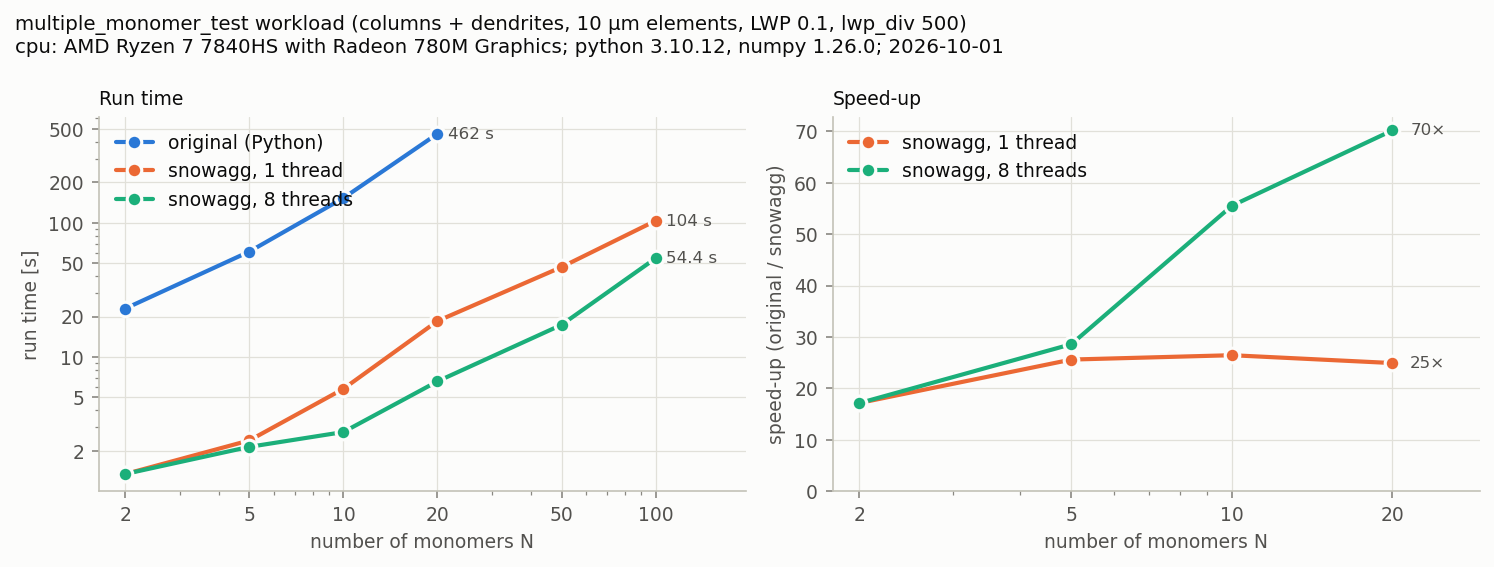
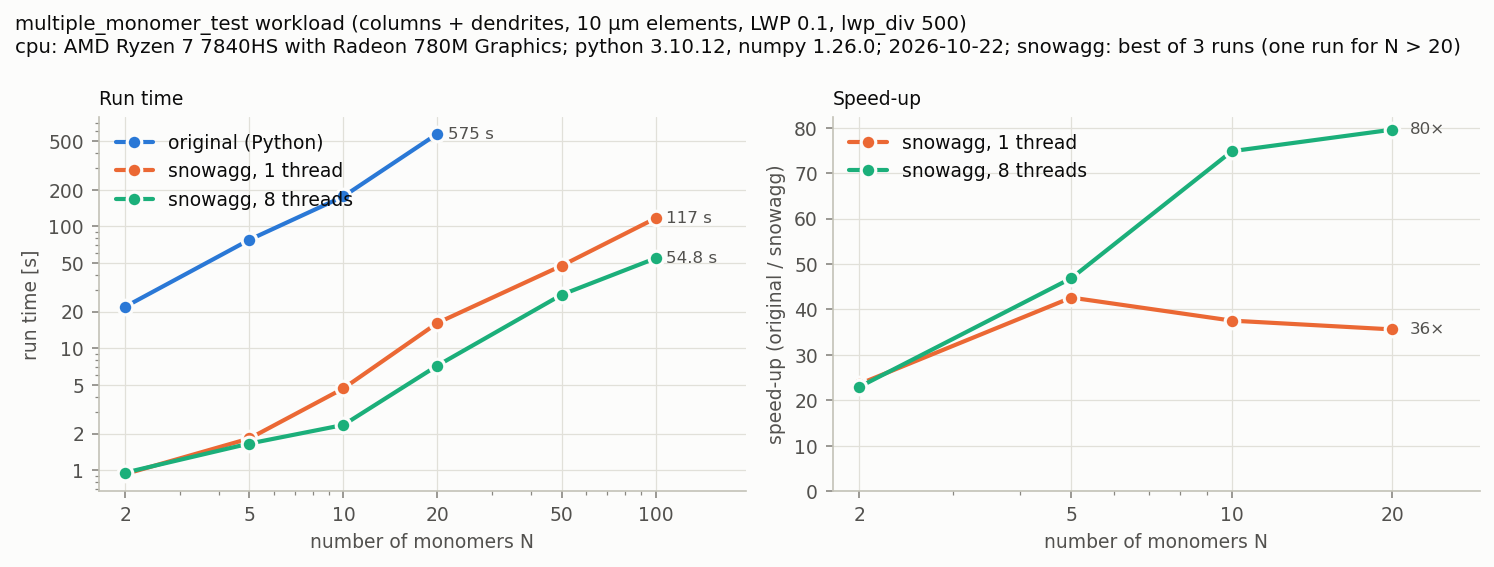
snowagg: no fused align/rotate passes; new benchmark, speed figures and README numbers
The fused passes of the previous speed-up (align and rotate also finding the
extent, rotate also summing X^T X for the next alignment) made runs on 8 threads
slower than before: the multiple_monomer_test workload with N = 20 took 11.5-12.6 s
instead of 9.3 s, while the same code was faster on 1 thread. Without them (the
original align and rotate, the C++ loop of orientation_samples, the projected area
with its grid size from the extent, the flat 3D index and the parallel covering
sphere) the workload takes 7.6-8.3 s on 8 threads and, measured side by side
with the first version of snowagg on 1 thread, 4.7 s instead of 6.3 s (N = 10)
and 16.4 s instead of 20.9 s (N = 20). The results are bit-identical to those of
the first version (complete runs and the covering sphere, 1 and 8 threads), and
the 98 tests pass.

docs/benchmark.py runs each setting in a process of its own (--only repeats one
setting and keeps the other rows), does a few seconds of untimed work first (the
first parallel runs of a process are slow) and keeps the shortest of 3 runs for
the short snowagg cases. The CSV, the two figures and the speed section of the
README are those of a new run.

diff --git a/snowagg/include/snowagg/aggregate.hpp b/snowagg/include/snowagg/aggregate.hpp
@@ -160,20 +160,19 @@ public:
         if (update) update_coordinates();
     }
 
-    // X^T X, summed in blocks of COV_BLOCK rows: the sums of x*x, y*x, z*x,
-    // y*y, z*y, z*z of each block. The blocks are fixed, so the result does
-    // not depend on the number of threads.
-    static constexpr int64_t COV_BLOCK = 16384;
-    using CovParts = std::vector<std::array<double, 6>>;
-
-    CovParts cov_parts() const {
+    // Principal axes as columns, in descending order of length; the length
+    // of each axis is the RMS extent along it.
+    Mat3 principal_axes() const {
+        // X^T X summed in fixed blocks, so the result does not depend on
+        // the number of threads
+        constexpr int64_t B = 16384;
         const int64_t n = static_cast<int64_t>(X.size());
-        const int64_t nb = (n + COV_BLOCK - 1) / COV_BLOCK;
-        CovParts part(nb);
+        const int64_t nb = (n + B - 1) / B;
+        std::vector<std::array<double, 6>> part(nb);
 #pragma omp parallel for schedule(static) if (nb > 4)
         for (int64_t b = 0; b < nb; ++b) {
             std::array<double, 6> s{};
-            for (int64_t i = b * COV_BLOCK; i < std::min(n, (b + 1) * COV_BLOCK); ++i) {
+            for (int64_t i = b * B; i < std::min(n, (b + 1) * B); ++i) {
                 const auto& p = X[i];
                 s[0] += p[0] * p[0];
                 s[1] += p[1] * p[0];
@@ -184,15 +183,6 @@ public:
             }
             part[b] = s;
         }
-        return part;
-    }
-
-    // Principal axes as columns, in descending order of length; the length
-    // of each axis is the RMS extent along it.
-    Mat3 principal_axes() const { return principal_axes_from(cov_parts()); }
-
-    // The same from cov_parts() of the present coordinates.
-    Mat3 principal_axes_from(const CovParts& part) const {
         std::array<double, 6> t{};
         for (const auto& s : part)
             for (int k = 0; k < 6; ++k) t[k] += s[k];
@@ -222,109 +212,49 @@ public:
     }
 
     // Rotate so that the principal axes point along x, y, z (longest first).
-    void align() { align_from(principal_axes()); }
-
-    // align() with the principal axes PA already known (principal_axes_from)
-    void align_from(Mat3 PA) {
+    void align() {
+        Mat3 PA = principal_axes();
         for (int c = 0; c < 3; ++c) {
             const double n = std::sqrt(sq(PA[0][c]) + sq(PA[1][c]) + sq(PA[2][c]));
             for (int r = 0; r < 3; ++r) PA[r][c] /= n;
         }
-        if (X.empty()) {
-            right_multiply(X, PA);
-        } else {
-            // X . PA and the new extent in one pass
-            const int64_t n = static_cast<int64_t>(X.size());
-            double lo[3] = {INFINITY, INFINITY, INFINITY}, hi[3] = {-INFINITY, -INFINITY, -INFINITY};
-#pragma omp parallel for schedule(static) reduction(min : lo[:3]) reduction(max : hi[:3]) if (n > PAR_MIN)
-            for (int64_t i = 0; i < n; ++i) {
-                auto& p = X[i];
-                const double x = p[0], y = p[1], z = p[2];
-                p[0] = x * PA[0][0] + y * PA[1][0] + z * PA[2][0];
-                p[1] = x * PA[0][1] + y * PA[1][1] + z * PA[2][1];
-                p[2] = x * PA[0][2] + y * PA[1][2] + z * PA[2][2];
-                for (int d = 0; d < 3; ++d) {
-                    lo[d] = std::min(lo[d], p[d]);
-                    hi[d] = std::max(hi[d], p[d]);
-                }
-            }
-            for (int d = 0; d < 3; ++d) {
-                extent(d, 0) = lo[d];
-                extent(d, 1) = hi[d];
-            }
-        }
+        right_multiply(X, PA);
         fortran_order = false;  // np.dot(X, PA)
-        if (X.empty()) update_extent();
+        update_extent();
     }
 
-    // parts: if given, receives cov_parts() of the rotated coordinates (it is
-    // computed in the pass that rotates them).
-    void rotate(const Rotator& rot, Rng& rng, CovParts* parts = nullptr) {
+    void rotate(const Rotator& rot, Rng& rng) {
         const Vec3 m = mean_rows(X, fortran_order);
         if (rot.identity()) {
             subtract(m);
             fortran_order = true;
             update_extent();
-            if (parts) *parts = cov_parts();
             return;
         }
         const Mat3 R = rot.draw(rng);
         const int64_t n = static_cast<int64_t>(X.size());
-        const int64_t nb = (n + COV_BLOCK - 1) / COV_BLOCK;
-        if (parts) parts->assign(nb, std::array<double, 6>{});
-        double lo[3] = {INFINITY, INFINITY, INFINITY}, hi[3] = {-INFINITY, -INFINITY, -INFINITY};
-        // blocks of rows, so that the sums of the blocks are those of cov_parts()
-#pragma omp parallel for schedule(static) reduction(min : lo[:3]) reduction(max : hi[:3]) if (n > PAR_MIN)
-        for (int64_t b = 0; b < nb; ++b) {
-            std::array<double, 6> s{};
-            for (int64_t i = b * COV_BLOCK; i < std::min(n, (b + 1) * COV_BLOCK); ++i) {
-                auto& p = X[i];
-                const double x = p[0] - m[0], y = p[1] - m[1], z = p[2] - m[2];
-                p[0] = R[0][0] * x + R[0][1] * y + R[0][2] * z;
-                p[1] = R[1][0] * x + R[1][1] * y + R[1][2] * z;
-                p[2] = R[2][0] * x + R[2][1] * y + R[2][2] * z;
-                for (int d = 0; d < 3; ++d) {
-                    lo[d] = std::min(lo[d], p[d]);
-                    hi[d] = std::max(hi[d], p[d]);
-                }
-                if (parts) {
-                    s[0] += p[0] * p[0];
-                    s[1] += p[1] * p[0];
-                    s[2] += p[2] * p[0];
-                    s[3] += p[1] * p[1];
-                    s[4] += p[2] * p[1];
-                    s[5] += p[2] * p[2];
-                }
-            }
-            if (parts) (*parts)[b] = s;
-        }
-        if (n > 0) {
-            for (int d = 0; d < 3; ++d) {
-                extent(d, 0) = lo[d];
-                extent(d, 1) = hi[d];
-            }
-        } else {
-            update_extent();
+#pragma omp parallel for schedule(static) if (n > PAR_MIN)
+        for (int64_t i = 0; i < n; ++i) {
+            auto& p = X[i];
+            const double x = p[0] - m[0], y = p[1] - m[1], z = p[2] - m[2];
+            p[0] = R[0][0] * x + R[0][1] * y + R[0][2] * z;
+            p[1] = R[1][0] * x + R[1][1] * y + R[1][2] * z;
+            p[2] = R[2][0] * x + R[2][1] * y + R[2][2] * z;
         }
         fortran_order = true;  // rotator.rotate(X.T).T
+        update_extent();
     }
 
     // num times: the projected area along z, then align (if wanted) and
     // rotate with rot: what get_N_rime_particles does to average the area
-    // over orientations. Returns the areas. The principal axes of each
-    // alignment come from sums made while rotating, which saves a pass over
-    // the elements; the results are those of calling the three steps one by
-    // one.
+    // over orientations. Returns the areas; the results are those of calling
+    // the three steps one by one, without going back to Python in between.
     std::vector<double> orientation_samples(const Rotator& rot, Rng& rng, int num, bool do_align) {
         std::vector<double> areas;
-        CovParts parts;
-        bool have_parts = false;
         for (int s = 0; s < num; ++s) {
             areas.push_back(projected_area(2));
-            if (do_align) align_from(principal_axes_from(have_parts ? parts : cov_parts()));
-            const bool want = do_align && s + 1 < num;
-            rotate(rot, rng, want ? &parts : nullptr);
-            have_parts = want;
+            if (do_align) align();
+            rotate(rot, rng);
         }
         return areas;
     }

diff --git a/snowagg/docs/benchmark.py b/snowagg/docs/benchmark.py
@@ -6,9 +6,13 @@ with numpy's default settings. Writes docs/data/benchmark.csv, which
 docs/plot_benchmark.py turns into the figures.
 
 usage (from the snowagg directory; the original package is at the repository root):
-    python docs/benchmark.py [--quick]
+    python docs/benchmark.py [--quick] [--only original|snowagg-1|snowagg-8]
 
-Takes about half an hour; --quick runs the small cases only (a check).
+Takes about half an hour, mostly the original; --quick runs the small cases only
+(a check). --only runs one setting and replaces its rows in the CSV (so the slow
+original need not be repeated). A full run does each setting in a process of
+its own. The shortest of 3 runs is kept for the snowagg cases with N <= 20 (the
+time of the first runs of a process varies, see warm_up).
 """
 import argparse
 import csv
@@ -16,6 +20,14 @@ import os
 import platform
 import sys
 import time
+
+_ap = argparse.ArgumentParser()
+_ap.add_argument("--quick", action="store_true")
+_ap.add_argument("--only", choices=["original", "snowagg-1", "snowagg-8"])
+_ap.add_argument("--out", default=None)
+ARGS = _ap.parse_args()
+if ARGS.only == "snowagg-1":
+    os.environ["OMP_NUM_THREADS"] = "1"  # before the OpenMP runtime starts
 
 import numpy as np
 from scipy import stats
@@ -86,20 +98,40 @@ SCALING_N = {"original": [2, 5, 10, 20], "snowagg": [2, 5, 10, 20, 50, 100]}
 QUICK = {"cases": [CASES[0]], "N": {"original": [2], "snowagg": [2]}}
 
 
-def timed(fn, pkg):
+def warm_up(pkg):
+    """A few seconds of work that is not timed: the first parallel runs of a
+    process are slow (threads start, the cores speed up from idle), which a
+    single timed run of a few seconds would measure."""
     t0 = time.perf_counter()
-    out = fn(pkg)
-    return out, time.perf_counter() - t0
+    while time.perf_counter() - t0 < 4.0:
+        pkg.dendrite.generate_dendrite(1.0, 0.4, 0.001, grid_size=200, num_iter=3000)
+
+
+def timed(fn, pkg, repeats=1):
+    """The result and the shortest of `repeats` run times."""
+    best = float("inf")
+    for _ in range(repeats):
+        t0 = time.perf_counter()
+        out = fn(pkg)
+        best = min(best, time.perf_counter() - t0)
+    return out, best
+
+
+SETTINGS = {"original": ("original", None), "snowagg-1": ("snowagg", 1), "snowagg-8": ("snowagg", 8)}
 
 
 def main():
-    ap = argparse.ArgumentParser()
-    ap.add_argument("--quick", action="store_true")
-    ap.add_argument("--out", default=os.path.join(HERE, "data", "benchmark.csv"))
-    args = ap.parse_args()
+    args = ARGS
+    out = args.out or os.path.join(HERE, "data", "benchmark.csv")
+    if args.only is None:  # each setting in a process of its own (the OpenMP environment differs)
+        import subprocess
+        for name in SETTINGS:
+            subprocess.run([sys.executable, os.path.abspath(__file__), "--only", name, "--out", out]
+                           + (["--quick"] if args.quick else []), check=True)
+        return
     cases = QUICK["cases"] if args.quick else CASES
     scaling = QUICK["N"] if args.quick else SCALING_N
-    settings = [("original", None), ("snowagg", 1), ("snowagg", 8)]
+    names = [args.only]
     rows = []
 
     def record(kind, label, impl, threads, N, n_el, dt):
@@ -107,25 +139,38 @@ def main():
                          seconds=f"{dt:.4f}"))
         print(f"{label:60s} {impl:8s} threads={threads or '-':2} {dt:9.2f} s  {n_el} elements", flush=True)
 
-    for impl, threads in settings:
+    for name in names:
+        impl, threads = SETTINGS[name]
         if threads:
             snowagg.set_num_threads(threads)
         pkg = IMPLS[impl]
+        if impl == "snowagg":
+            warm_up(pkg)
+        reps = 3 if impl == "snowagg" else 1  # the original takes minutes per run
         for label, fn in cases:
-            n_el, dt = timed(fn, pkg)
+            n_el, dt = timed(fn, pkg, reps)
             record("case", label, impl, threads, "", n_el, dt)
         for N in scaling[impl]:
-            n_el, dt = timed(case_multimonomer(N), pkg)
+            n_el, dt = timed(case_multimonomer(N), pkg, reps if N <= 20 else 1)
             record("scaling", "multiple_monomer_test workload", impl, threads, N, n_el, dt)
 
-    os.makedirs(os.path.dirname(args.out), exist_ok=True)
-    with open(args.out, "w", newline="") as f:
+    if os.path.exists(out):  # keep the rows of the other settings
+        with open(out, newline="") as f:
+            f.readline()
+            old = list(csv.DictReader(f))
+        impl, threads = SETTINGS[args.only]
+        keep = [r for r in old if not (r["impl"] == impl and r["threads"] == (str(threads) if threads else ""))]
+        rows = keep + rows
+        rows.sort(key=lambda r: (["original", "snowagg"].index(r["impl"]), int(r["threads"] or 0), r["kind"] != "case"))
+
+    os.makedirs(os.path.dirname(out), exist_ok=True)
+    with open(out, "w", newline="") as f:
         f.write(f"# cpu: {cpu_name()}; python {platform.python_version()}, numpy {np.__version__}; "
-                f"{time.strftime('%Y-%m-%d')}\n")
+                f"{time.strftime('%Y-%m-%d')}; snowagg: best of 3 runs (one run for N > 20)\n")
         w = csv.DictWriter(f, fieldnames=list(rows[0]))
         w.writeheader()
         w.writerows(rows)
-    print("wrote", args.out)
+    print("wrote", out)
 
 
 def cpu_name():

diff --git a/snowagg/README.md b/snowagg/README.md
@@ -168,33 +168,47 @@ through numpy functions the Python driver uses; see
 ## Speed
 
 Measured with `docs/benchmark.py` on an AMD Ryzen 7 7840HS laptop (8 cores; snowagg
-built with `-march=native`, the original with numpy 1.26 and its default settings).
-Every workload runs with the same parameters and seed in both implementations.
+built with `-march=native`, the original with numpy 1.26 and its default settings),
+on 2026-10-22. Every workload runs with the same parameters and seed in both
+implementations. For snowagg the shortest of 3 runs is kept (one run for N > 20).
+The times of a laptop vary from day to day by 10–30 % (the original's N = 20 run took
+462 s on 2026-10-01 and 575 s on 2026-10-22), so compare the columns, not the days.
 
 ![Run times of several workloads](docs/img/speed_cases.png)
 
 | Workload | original | snowagg, 1 thread | snowagg, 8 threads |
 |---|---|---|---|
-| Reiter dendrite growth, 400×400 grid | 16.8 s | 7.4 s (2.3×) | 2.1 s (8×) |
-| Aggregation of 20 dendrites, 10 µm elements | 5.3 s | 0.09 s (57×) | 0.06 s (94×) |
-| Aggregation + riming, 10 dendrites, 10 µm, LWP 0.1, `lwp_div` 10 | 46.7 s | 1.2 s (40×) | 1.0 s (46×) |
-| `multiple_monomer_test.py` workload, N = 10 (0.16 M elements) | 153 s | 5.8 s (26×) | 2.8 s (56×) |
-| same, N = 20 (0.55 M elements) | 462 s | 18.5 s (25×) | 6.6 s (70×) |
-| same, N = 100 (2.4 M elements) | – | 104 s | 54 s |
+| Reiter dendrite growth, 400×400 grid | 16.0 s | 7.9 s (2×) | 2.3 s (7×) |
+| Aggregation of 20 dendrites, 10 µm elements | 4.8 s | 0.11 s (43×) | 0.13 s (36×) |
+| Aggregation + riming, 10 dendrites, 10 µm, LWP 0.1, `lwp_div` 10 | 47.4 s | 1.5 s (32×) | 1.5 s (32×) |
+| `multiple_monomer_test.py` workload, N = 10 (0.16 M elements) | 176 s | 4.7 s (38×) | 2.4 s (75×) |
+| same, N = 20 (0.55 M elements) | 575 s | 16.1 s (36×) | 7.2 s (80×) |
+| same, N = 100 (2.4 M elements) | – | 117 s | 54.8 s |
 
 ![Run time and speed-up against the number of monomers](docs/img/speed_scaling.png)
 
 * The original's Reiter growth is already vectorized numpy, so the gain there is
   small; aggregation and riming, which loop in Python, gain the most.
-* Riming costs about 2.3 µs per rime particle. With a large `lwp_div` most of the
-  time goes into the 10 projected-area samples (each with align and rotate) per
-  riming increment, which the model prescribes.
+* With a large `lwp_div` most of the time goes into the 10 projected-area samples
+  (each with align and rotate) per riming increment, which the model prescribes.
+  They run in one C++ call (`Aggregate.orientation_samples`), and the projected area
+  takes the size of its grid from the extent. The spatial index of the compaction step
+  is a flat grid, and the minimum covering sphere makes one parallel pass per
+  iteration. Together this made the `multiple_monomer_test` workload about 1.3×
+  faster than the first version of snowagg on 1 thread (N = 10: 6.3 s → 4.7 s;
+  N = 20: 20.9 s → 16.4 s, measured side by side) and about 1.2× on 8 threads, with
+  bit-identical results.
 * Threads help most for large aggregates; the work is memory bound, so 8 threads
-  give at most about 3× over 1 thread. For many runs, one single-threaded process per
+  give about 2× over 1 thread. For many runs, one single-threaded process per
   run is faster (`examples/parallel_ensemble.py`).
+* The times of 8 threads on a laptop fluctuate more than those of 1 thread (the
+  threads are moved between cores while other programs run, and the first runs
+  of a process are slower while the cores speed up), which is why the benchmark
+  runs a few seconds of untimed work first.
 
-Regenerate with `python docs/benchmark.py` (about 30 minutes, mostly the original)
-and `python docs/plot_benchmark.py`.
+Regenerate with `python docs/benchmark.py` (about 30 minutes, mostly the original;
+`--only snowagg-1` or `--only snowagg-8` repeats one setting and keeps the other
+rows) and `python docs/plot_benchmark.py`.
 
 ## Random numbers, threads and reproducibility
 
